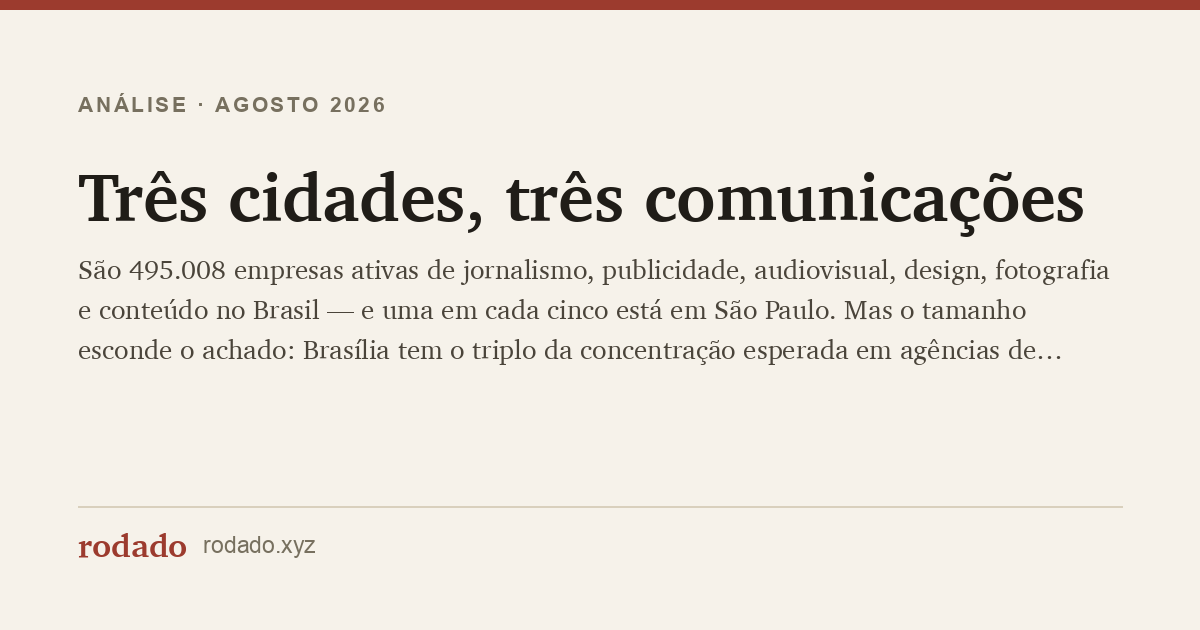
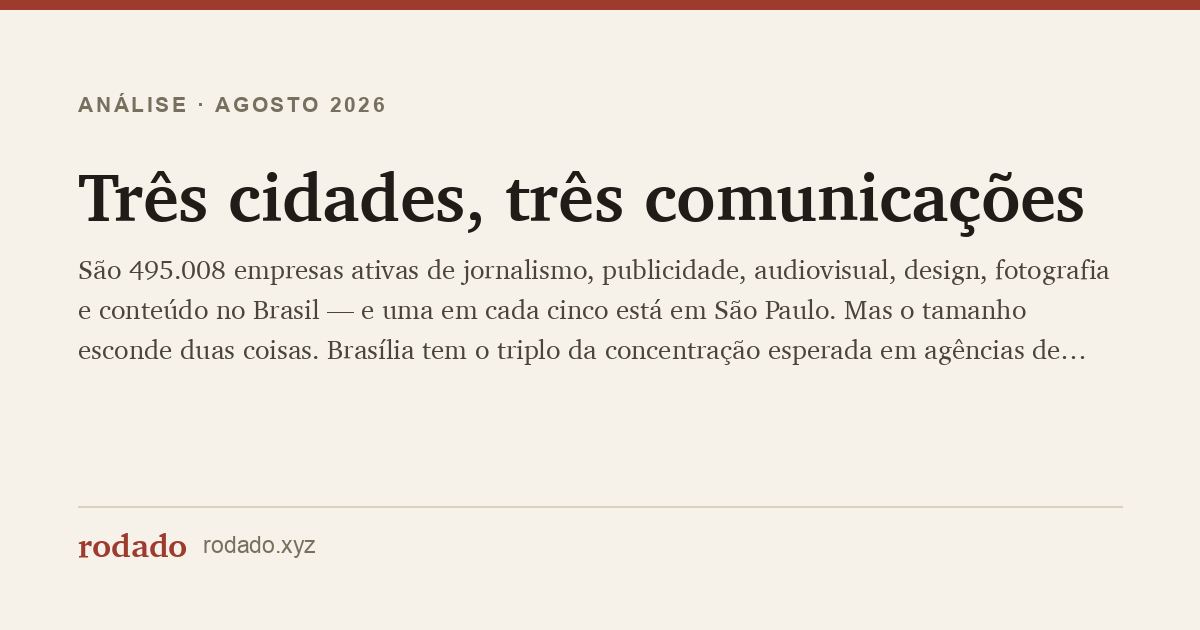
feat: emprego formal do setor de comunicação pela RAIS 2024
A ressalva de que o mapa conta empresas e não pessoas era uma suposição;
a RAIS mede. Em São Paulo, 50.557 dos 53.430 estabelecimentos do setor
(94,6%) não têm um único empregado, e a cidade tem menos vagas formais
(49.438) do que estabelecimentos.

Ordenar por emprego inverte a lista: pós-produção audiovisual é a maior
atividade paulistana em número de empresas (18.249) e tem 321 empregos;
agências de publicidade têm um terço das empresas e 13.638 vagas. A cadeia
técnica que distingue SP — dublagem 861 empresas/44 empregos, mixagem 332/72
— é feita de contrato, não de carteira assinada.

Brasília concentra 72% do audiovisual empregado num único estabelecimento
(484 de 670) e quase empata com SP em jornal diário (400 contra 473).
Fortaleza é a única onde agências não lideram — marketing direto tem 696 —
e 140 dos seus 153 empregos em jornal diário estão num só endereço.

Capital social foi descartado como medida de porte: o topo por esse critério
traz holding, fintech e distribuidora de tecnologia registradas sob CNAE de
publicidade e conteúdo. A RAIS é anônima, então mede quanto e quão
concentrado, nunca quem.

Changed region(s): [[0.1542, 0.5429, 0.8942, 0.573]]

diff --git a/pages/analises/tres-cidades-tres-comunicacoes/index.html b/pages/analises/tres-cidades-tres-comunicacoes/index.html
@@ -5,7 +5,7 @@
 <meta name="viewport" content="width=device-width, initial-scale=1">
 <!-- gerado por scripts/gera_analises.py — não editar à mão -->
 <title>Três cidades, três comunicações — rodado</title>
-<meta name="description" content="São 495.008 empresas ativas de jornalismo, publicidade, audiovisual, design, fotografia e conteúdo no Brasil — e uma em cada cinco está em São Paulo. Mas o tamanho esconde o achado: Brasília tem o triplo da concentração esperada em agências de notícias e lidera em jornal diário; São Paulo domina as etapas técnicas que só existem onde a cadeia é funda o bastante para se dividir — mixagem sonora 2,4, dublagem 1,8; Fortaleza puxa para o presencial, e registra 4 empresas de dublagem contra 861 paulistanas. O mapa do universo que a pesquisa do Telas/UFC sobre IA no trabalho em comunicação vai a campo ouvir.">
+<meta name="description" content="São 495.008 empresas ativas de jornalismo, publicidade, audiovisual, design, fotografia e conteúdo no Brasil — e uma em cada cinco está em São Paulo. Mas o tamanho esconde duas coisas. Brasília tem o triplo da concentração esperada em agências de notícias e quase empata com São Paulo em emprego de jornal diário; São Paulo domina as etapas técnicas do audiovisual — mixagem sonora 2,4, dublagem 1,8 — que na RAIS somam 44 e 72 empregos formais, porque são feitas de contrato, não de carteira assinada. E 94,6% dos estabelecimentos paulistanos do setor não têm um único empregado: a cidade tem menos vagas do que empresas. O mapa do universo que a pesquisa do Telas/UFC sobre IA no trabalho em comunicação vai a campo ouvir.">
 <!-- seo:start (gerado por scripts/gera_seo.py — não editar à mão) -->
 <link rel="canonical" href="https://rodado.xyz/analises/tres-cidades-tres-comunicacoes/">
 <meta property="og:type" content="article">
@@ -13,14 +13,14 @@
 <meta property="og:locale" content="pt_BR">
 <meta property="og:url" content="https://rodado.xyz/analises/tres-cidades-tres-comunicacoes/">
 <meta property="og:title" content="Três cidades, três comunicações">
-<meta property="og:description" content="São 495.008 empresas ativas de jornalismo, publicidade, audiovisual, design, fotografia e conteúdo no Brasil — e uma em cada cinco está em São Paulo. Mas o tamanho esconde o achado: Brasília tem o triplo da concentração esperada em agências de notícias e lidera em jornal diário; São Paulo domina as etapas técnicas que só existem onde a cadeia é funda o bastante para se dividir — mixagem sonora 2,4, dublagem 1,8; Fortaleza puxa para o presencial, e registra 4 empresas de dublagem contra 861 paulistanas. O mapa do universo que a pesquisa do Telas/UFC sobre IA no trabalho em comunicação vai a campo ouvir.">
+<meta property="og:description" content="São 495.008 empresas ativas de jornalismo, publicidade, audiovisual, design, fotografia e conteúdo no Brasil — e uma em cada cinco está em São Paulo. Mas o tamanho esconde duas coisas. Brasília tem o triplo da concentração esperada em agências de notícias e quase empata com São Paulo em emprego de jornal diário; São Paulo domina as etapas técnicas do audiovisual — mixagem sonora 2,4, dublagem 1,8 — que na RAIS somam 44 e 72 empregos formais, porque são feitas de contrato, não de carteira assinada. E 94,6% dos estabelecimentos paulistanos do setor não têm um único empregado: a cidade tem menos vagas do que empresas. O mapa do universo que a pesquisa do Telas/UFC sobre IA no trabalho em comunicação vai a campo ouvir.">
 <meta property="og:image" content="https://rodado.xyz/analises/img/og-tres-cidades-tres-comunicacoes.png">
 <meta property="og:image:width" content="1200">
 <meta property="og:image:height" content="630">
 <meta property="og:image:alt" content="Três cidades, três comunicações — rodado">
 <meta name="twitter:card" content="summary_large_image">
 <meta name="twitter:title" content="Três cidades, três comunicações">
-<meta name="twitter:description" content="São 495.008 empresas ativas de jornalismo, publicidade, audiovisual, design, fotografia e conteúdo no Brasil — e uma em cada cinco está em São Paulo. Mas o tamanho esconde o achado: Brasília tem o triplo da concentração esperada em agências de notícias e lidera em jornal diário; São Paulo domina as etapas técnicas que só existem onde a cadeia é funda o bastante para se dividir — mixagem sonora 2,4, dublagem 1,8; Fortaleza puxa para o presencial, e registra 4 empresas de dublagem contra 861 paulistanas. O mapa do universo que a pesquisa do Telas/UFC sobre IA no trabalho em comunicação vai a campo ouvir.">
+<meta name="twitter:description" content="São 495.008 empresas ativas de jornalismo, publicidade, audiovisual, design, fotografia e conteúdo no Brasil — e uma em cada cinco está em São Paulo. Mas o tamanho esconde duas coisas. Brasília tem o triplo da concentração esperada em agências de notícias e quase empata com São Paulo em emprego de jornal diário; São Paulo domina as etapas técnicas do audiovisual — mixagem sonora 2,4, dublagem 1,8 — que na RAIS somam 44 e 72 empregos formais, porque são feitas de contrato, não de carteira assinada. E 94,6% dos estabelecimentos paulistanos do setor não têm um único empregado: a cidade tem menos vagas do que empresas. O mapa do universo que a pesquisa do Telas/UFC sobre IA no trabalho em comunicação vai a campo ouvir.">
 <meta name="twitter:image" content="https://rodado.xyz/analises/img/og-tres-cidades-tres-comunicacoes.png">
 <link rel="icon" href="../../assets/favicon.ico" sizes="any">
 <link rel="icon" type="image/png" sizes="32x32" href="../../assets/favicon-32.png">
@@ -29,7 +29,7 @@
 <link rel="manifest" href="https://rodado.xyz/site.webmanifest">
 <meta name="theme-color" content="#9c3b2e">
 <meta name="robots" content="index,follow,max-image-preview:large,max-snippet:-1">
-<script type="application/ld+json">{"@context":"https://schema.org","@type":"Article","headline":"Três cidades, três comunicações","description":"São 495.008 empresas ativas de jornalismo, publicidade, audiovisual, design, fotografia e conteúdo no Brasil — e uma em cada cinco está em São Paulo. Mas o tamanho esconde o achado: Brasília tem o triplo da concentração esperada em agências de notícias e lidera em jornal diário; São Paulo domina as etapas técnicas que só existem onde a cadeia é funda o bastante para se dividir — mixagem sonora 2,4, dublagem 1,8; Fortaleza puxa para o presencial, e registra 4 empresas de dublagem contra 861 paulistanas. O mapa do universo que a pesquisa do Telas/UFC sobre IA no trabalho em comunicação vai a campo ouvir.","url":"https://rodado.xyz/analises/tres-cidades-tres-comunicacoes/","image":"https://rodado.xyz/analises/img/og-tres-cidades-tres-comunicacoes.png","datePublished":"2026-08","inLanguage":"pt-BR","author":{"@type":"Organization","name":"rodado"},"isPartOf":{"@type":"WebSite","name":"rodado","url":"https://rodado.xyz/"}}</script>
+<script type="application/ld+json">{"@context":"https://schema.org","@type":"Article","headline":"Três cidades, três comunicações","description":"São 495.008 empresas ativas de jornalismo, publicidade, audiovisual, design, fotografia e conteúdo no Brasil — e uma em cada cinco está em São Paulo. Mas o tamanho esconde duas coisas. Brasília tem o triplo da concentração esperada em agências de notícias e quase empata com São Paulo em emprego de jornal diário; São Paulo domina as etapas técnicas do audiovisual — mixagem sonora 2,4, dublagem 1,8 — que na RAIS somam 44 e 72 empregos formais, porque são feitas de contrato, não de carteira assinada. E 94,6% dos estabelecimentos paulistanos do setor não têm um único empregado: a cidade tem menos vagas do que empresas. O mapa do universo que a pesquisa do Telas/UFC sobre IA no trabalho em comunicação vai a campo ouvir.","url":"https://rodado.xyz/analises/tres-cidades-tres-comunicacoes/","image":"https://rodado.xyz/analises/img/og-tres-cidades-tres-comunicacoes.png","datePublished":"2026-08","inLanguage":"pt-BR","author":{"@type":"Organization","name":"rodado"},"isPartOf":{"@type":"WebSite","name":"rodado","url":"https://rodado.xyz/"}}</script>
 <!-- seo:end -->
 <!-- a linha do site.css é marca do bloco comum: o gera_seo.py a substitui pelo
      bloco inteiro aqui, e não no fim do <head>, para o analises.css abaixo

diff --git a/pages/analises/results/tres-cidades-tres-comunicacoes.md b/pages/analises/results/tres-cidades-tres-comunicacoes.md
@@ -206,6 +206,77 @@ ferramenta que acelera a produção é também a que derruba o preço que se pod
 
 ---
 
+## Quem de fato emprega
+
+A frase acima era, até aqui, uma suposição. A RAIS permite medi-la — e o resultado é mais extremo
+do que a intuição sugeria.
+
+Em 2024, as mesmas 25 atividades registravam **53.430 estabelecimentos em São Paulo**. Deles,
+**50.557 não tinham um único empregado** — 94,6%. A cidade inteira soma **49.438 empregos formais**
+no setor de comunicação: **menos vagas do que estabelecimentos**. Em Brasília são 92,7% sem
+empregado, em Fortaleza 85,4%.
+
+| | São Paulo | Fortaleza | Brasília |
+|---|---:|---:|---:|
+| Estabelecimentos na RAIS | 53.430 | 2.455 | 5.648 |
+| Sem nenhum empregado | 50.557 (94,6%) | 2.097 (85,4%) | 5.237 (92,7%) |
+| Com 50 ou mais | 170 | 9 | 20 |
+| Empregos formais | 49.438 | 2.516 | 3.932 |
+| Maior estabelecimento | 4.708 | 140 | 484 |
+
+E quando se ordena por emprego em vez de por número de empresas, **a lista vira do avesso**.
+
+### São Paulo: a agência emprega, a pós-produção não
+
+Pós-produção audiovisual é a maior atividade de São Paulo em quantidade de empresas — 18.249, mais
+que o dobro de qualquer outra. Em empregos formais ela tem **321**. São 0,02 emprego por empresa: é
+uma atividade que existe quase inteiramente como pessoa jurídica de uma pessoa só.
+
+Agências de publicidade fazem o caminho oposto. Com 6.586 empresas — um terço da pós-produção —
+empregam **13.638 pessoas**, 27,6% de todo o emprego do setor na cidade. Somadas a portais e
+provedores de conteúdo (12.650), as duas atividades respondem por **mais da metade** das vagas
+formais de comunicação em São Paulo.
+
+O mesmo contraste aparece justamente onde a cidade é mais especializada. Dublagem, com 861
+empresas, tem **44 empregos formais**. Mixagem sonora, com 332 empresas, tem **72**. A cadeia
+técnica que distingue São Paulo do resto do país é feita de contratos, não de carteiras assinadas.
+
+Há ainda dois empregadores isolados que distorcem seus próprios setores: um único estabelecimento
+de "outras atividades de publicidade" tem **4.708 empregados** — 76% de tudo o que a atividade
+emprega na cidade — e um de marketing direto tem **2.855**, quase metade da sua. Pelo porte e pelo
+ramo, são operações de promoção e teleatendimento, não redações ou agências criativas.
+
+### Brasília: o audiovisual público e o jornal
+
+Brasília inverte a hierarquia paulistana. Portais e provedores de conteúdo lideram com **1.187
+empregos** (30,2% do setor), mas o segundo lugar é o achado: **produção de cinema, vídeo e TV, com
+670 vagas — das quais 484 num único estabelecimento**. Setenta e dois por cento da produção
+audiovisual empregada da capital está numa só folha de pagamento, o que é a assinatura de um
+radiodifusor de porte, não de um mercado pulverizado de produtoras.
+
+Jornais diários empregam **400 pessoas** em Brasília, contra 473 em São Paulo — uma cidade sete
+vezes menor no setor quase empata com a maior praça do país em emprego de jornal. É a mesma
+concentração que o índice de especialização já apontava, agora com carteira assinada.
+
+### Fortaleza: marketing direto na frente, e um jornal que é quase o setor
+
+Fortaleza é a única das três em que **agências de publicidade não lideram**. O primeiro lugar é de
+marketing direto, com **696 empregos** (27,7% do setor), seguido de portais (574) e só então das
+agências (518).
+
+E o jornalismo de Fortaleza cabe num prédio. A atividade "jornais diários" emprega **153 pessoas**
+na cidade — **140 delas num único estabelecimento**, 91,5% do total. Não é um mercado com vários
+empregadores concorrendo por repórter: é uma redação grande e um punhado de operações pequenas em
+volta.
+
+Uma ressalva de compatibilidade: a RAIS é anônima — mede vínculos por estabelecimento, sem CNPJ nem
+razão social —, então dá para dizer *quanto* cada atividade emprega e *quão concentrado* está, mas
+nunca *quem* é o empregador. E os dois cadastros não cobrem o mesmo universo: a RAIS de 2024 tem
+53.430 estabelecimentos em São Paulo onde o CNPJ de setembro de 2025 tem 98.165 empresas ativas.
+A diferença é a distância entre quem existe como registro e quem chega a declarar folha.
+
+---
+
 ## Como este mapa será usado
 
 Este recorte de atividades foi construído para delimitar quem a pesquisa procura ouvir.
@@ -329,4 +400,6 @@ tem zero empresas em qualquer lugar.
 
 **Fonte:** Receita Federal do Brasil, Cadastro Nacional da Pessoa Jurídica — estabelecimentos com
 situação cadastral ativa em setembro de 2025, classificados pela atividade econômica principal
-(CNAE 2.0). Classificação de atividades conforme a Comissão Nacional de Classificação (Concla/IBGE).
+(CNAE 2.0). Dados de emprego formal: Ministério do Trabalho e Emprego, Relação Anual de Informações
+Sociais (RAIS) de 2024, microdados de estabelecimentos. Classificação de atividades conforme a
+Comissão Nacional de Classificação (Concla/IBGE).
